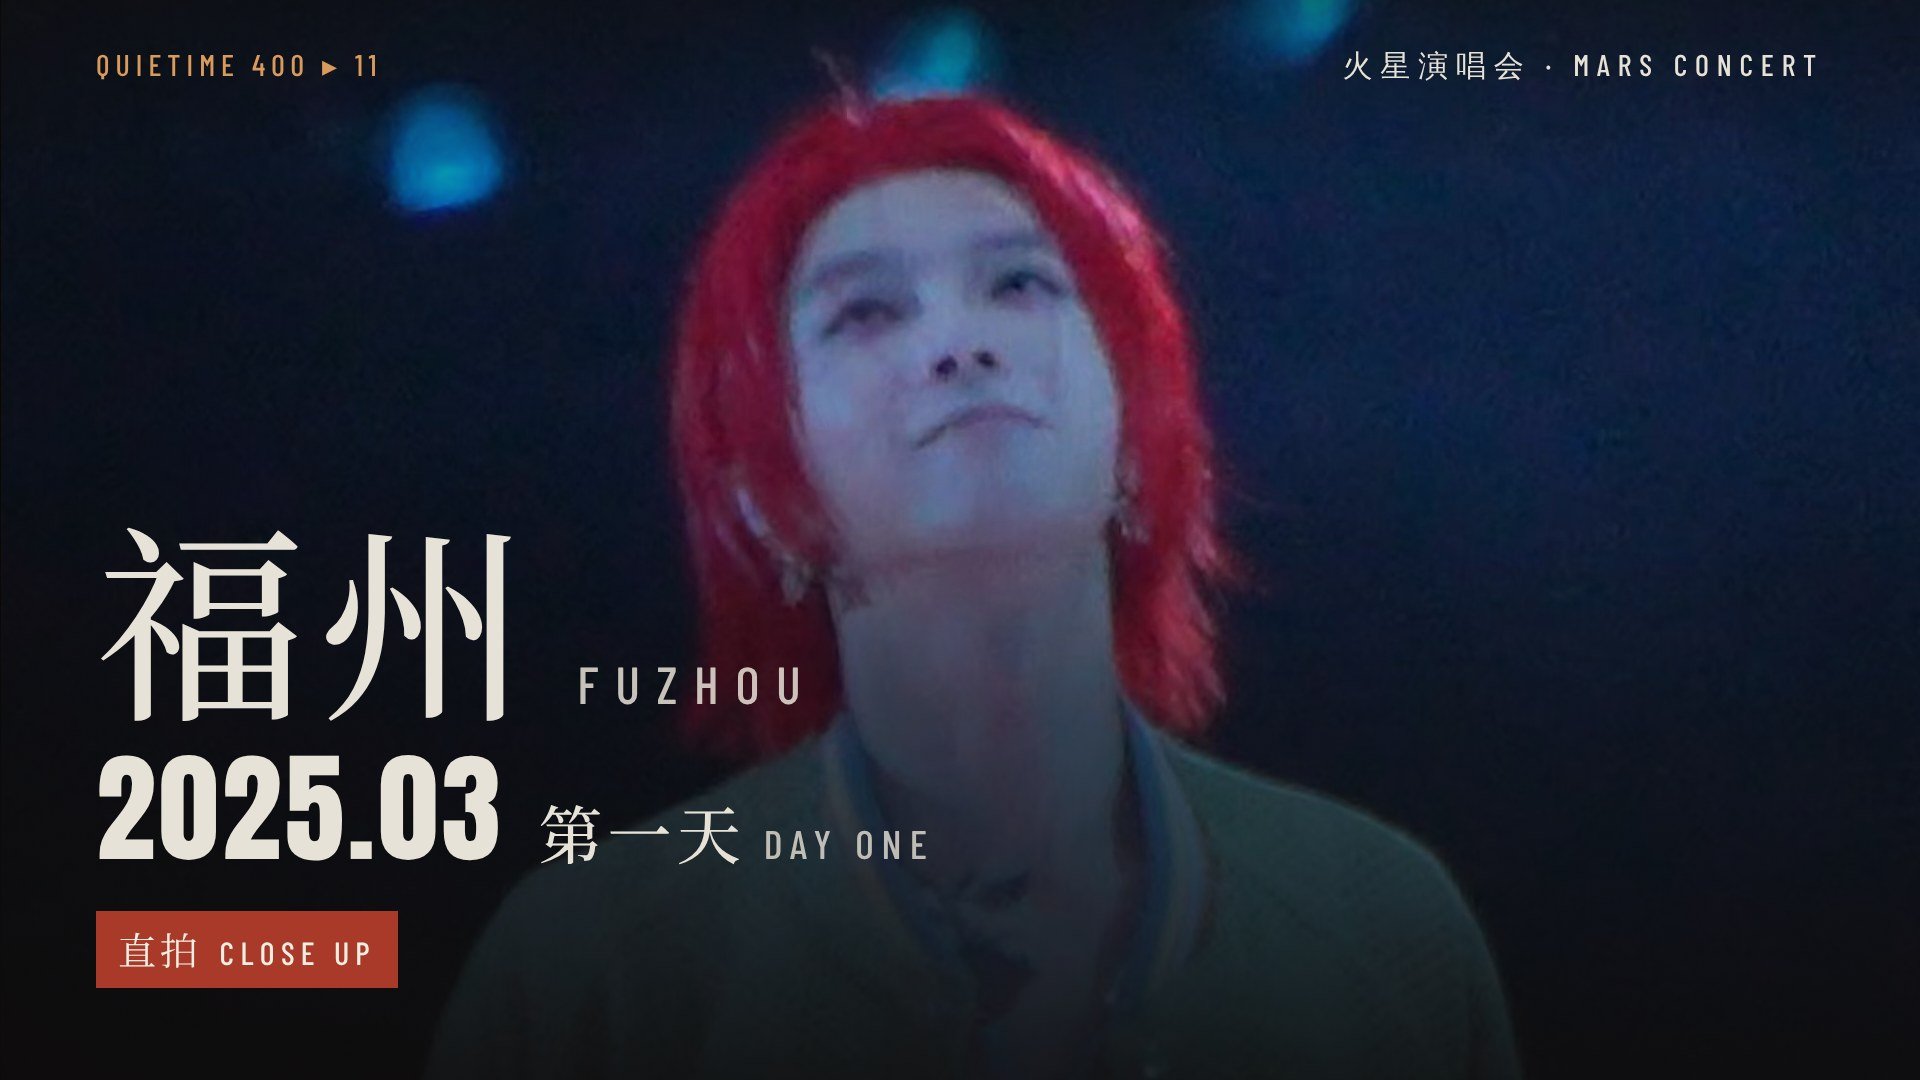
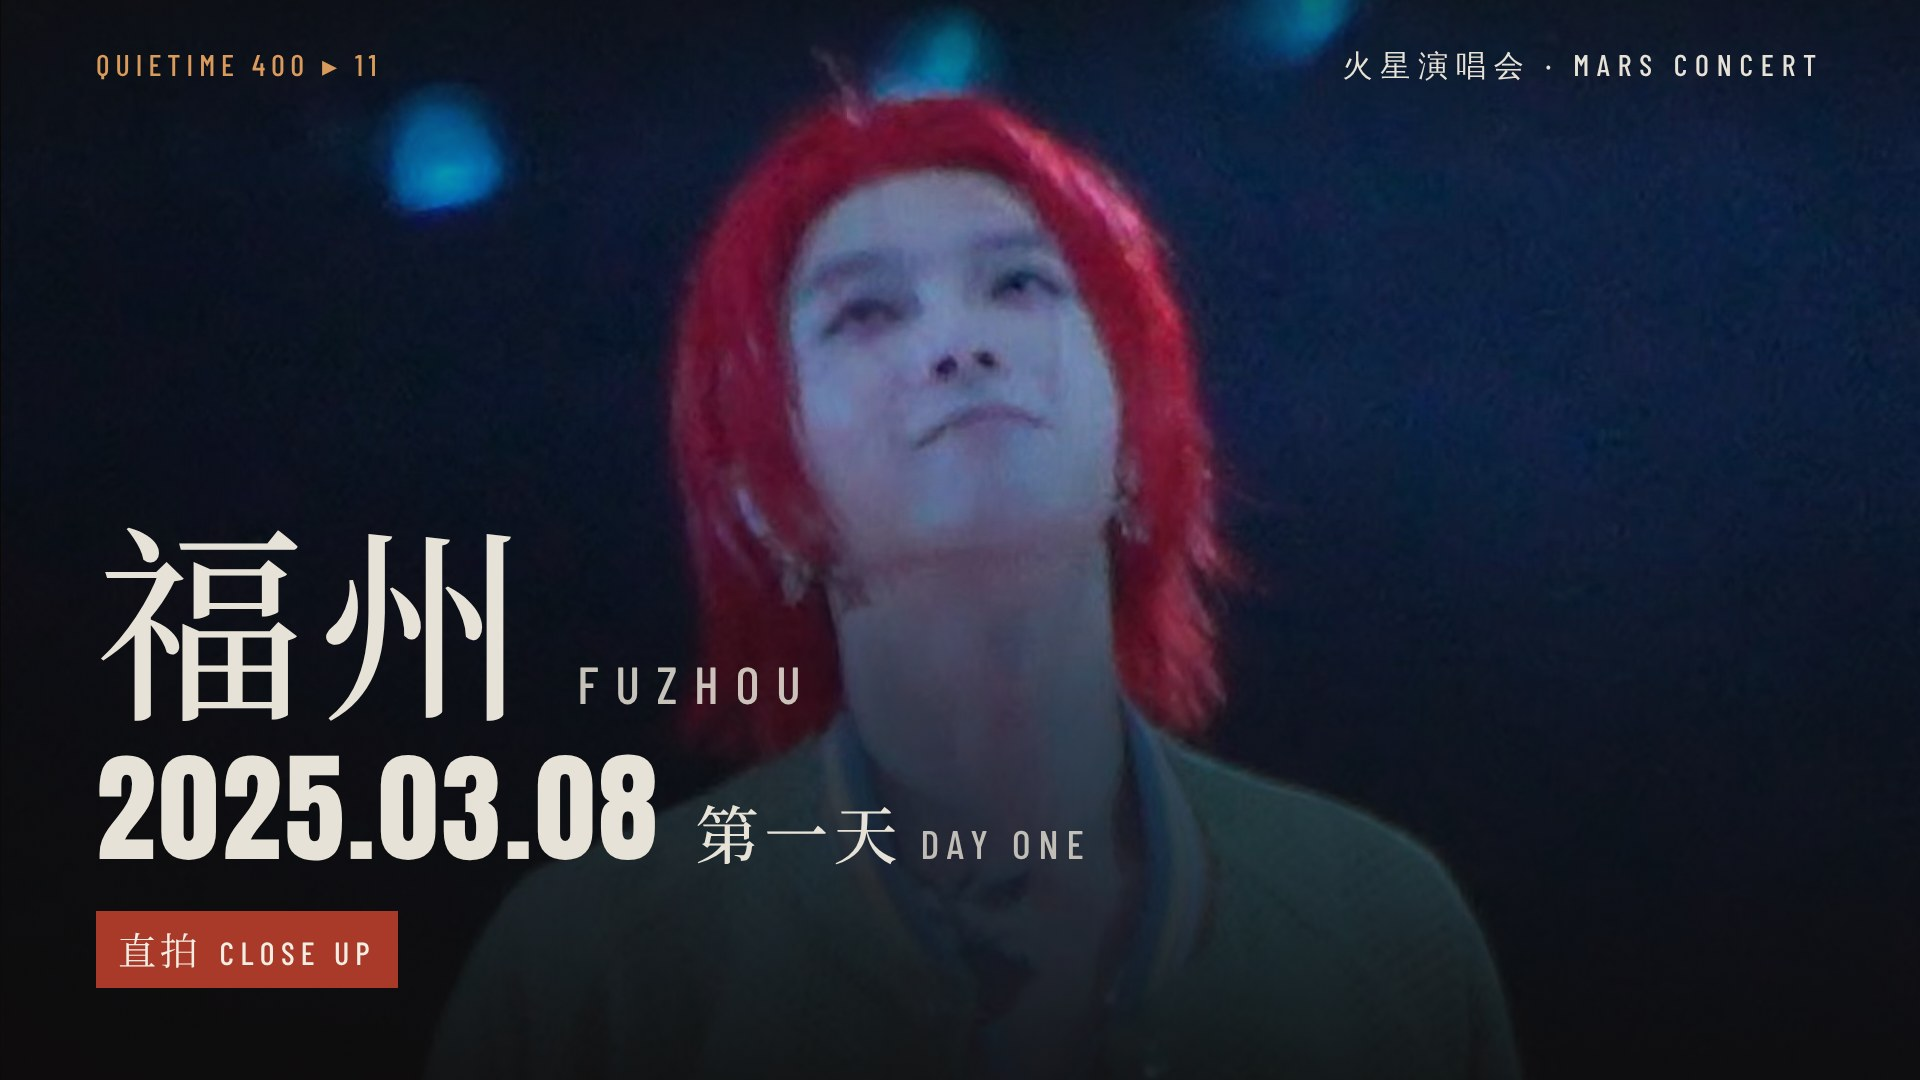
Films: the exact dates for the Changsha and Fuzhou shows
Changsha was 22 and 23 March 2025, Fuzhou 8 and 9 March 2025, as reported at the
time; the six covers are made again with the full dates. Nanjing's 27th is
confirmed as 27 September 2026.

Claude-Session: https://claude.ai/code/session_01LjJ6VvrKzfDLosAx7tok1z

Changed region(s): [[0.25, 0.7028, 0.5625, 0.7944]]

diff --git a/docs/plan.md b/docs/plan.md
@@ -35,7 +35,7 @@
 - [x] **示例照片换成工作室作品**（2026-11-05 完成，2026-11-14 收尾）：四个系列都是工作室自己的作品，`samples` 关闭。已删除 `settings.json` 和后台里的 `sample_credit_*`（Kodak 来源说明）以及页脚显示它的代码；`README.md` 的说明改为「示例照片开关」。
 - [x] **B站影片**（2026-11-15）：按主人意思，放上频道（space.bilibili.com/430840388）里能读到的 12 部火星演唱会录像（全程、直拍、双机位混剪），排在前面的是南京站、苏州站、杭州站、福州站。原来三部虚构的示例影片和封面已删除，封面改用 B站 原封面，存在 `content/films/<BV号>.jpg`。影像页显示全部，首页只显示前 4 部（`generate.mjs` 的 `HOME_FILMS`），避免首页变长。影像区文案改为演唱会。B站 接口对云端服务器有风控，构建时读不到时长和播放量时就只显示后台填写的片名和类型。几段二三十秒的歌曲片段和游戏直播没有放；频道更早的视频读不到（翻页被风控拦住），需要的话在后台加 BV 号。
 - [x] **影片封面与观看方式**（2026-11-15，主人要求）：B站 原封面上都没有日期和地点，12 张全部重新制作：原封面作底图（`content/films/stills/`），叠上城市（中英）、演出日期、场次、类型和胶片边码，字体配色与网站一致（`scripts/film-covers.mjs`，`npm run covers`）。影像页和首页每部影片都显示封面卡片，每张卡片都有「播放」（在本页打开播放器）和「在 B站 打开」两个入口。日期来源：苏州 29/30/31 日、杭州 2024.10.26、合肥 2024.08.10 写在标题里；南京 2026.09.27 是按标题「27号」和 10 月 17 日的发布时间推断的。
-- [ ] **影片日期待补**：长沙站（第一天、第二天）和福州站（第一天）标题里只有 Day1、Day2，封面上暂写 2025.03。请主人给出准确日期，在后台「演出日期」里改，然后重新生成封面；南京站也请核对一下是不是 9 月 27 日。
+- [x] **影片日期**（2026-11-15，按新闻报道核实）：长沙站 2025 年 3 月 22、23 日（贺龙体育场），福州站 3 月 8、9 日（海峡奥体中心，巡演首站），第一天、第二天分别对应前后两天。南京站 2026 年 9 月 25 日起在汤山音乐谷开唱，视频 10 月 17 日上传，第二阶段 10 月 24 日才开始，所以“27号”就是 9 月 27 日。六张封面已重新生成。
 - [x] **包体积与首次加载**（2026-11-15）：三维场景按页拆开，首页只下载胶片（spine），作品页和系列页只下载暗房（darkroom），每页少下载约 4.5KB（gzip）。three.js 本身（`kit`，gzip 137KB）已经是按需引入，主要是渲染器核心，无法再按场景拆。真正的提速来自顺序：有场景的页面在主脚本一运行就同时请求 three.js、场景代码和卷头卡要画的中文字形，不再一个等一个（`core.js` 的 `early`，新文件 `scene/text.js`）。在 1.6Mbps、150ms 延迟的模拟网络下，3D 画布出现的时间：首页 5.2 秒到 3.6 秒，系列页 5.1 秒到 5.0 秒，作品页不变（5.1 秒，卡在卷头大段中文字形的下载，受带宽限制）。
 - [ ] **全局 Skill**（2026-11-15）：核对发现 Default 和 QUIETIME WEB 两个环境原本都没有启动脚本，之前的说法有误。已写 `scripts/install-skills.sh`（8 个 Skill 锁定提交号，重复运行会跳过），并给 QUIETIME WEB 环境加了启动脚本：调用它，再跑 `npm ci`。在当前容器从头实跑通过。剩下：合并进 main 后新开一个会话，看 `~/.claude/skills` 是否齐全。
 - [ ] **MCP 登录**：regards、lottiefiles、mobbin 需要在 claude.ai 连接器里用 OAuth 登录后才能用。
